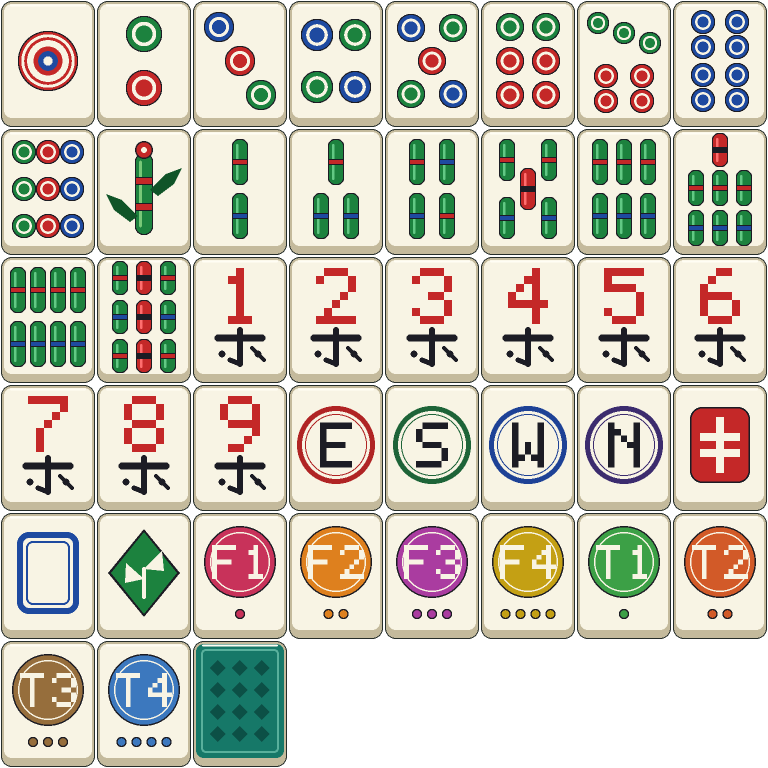
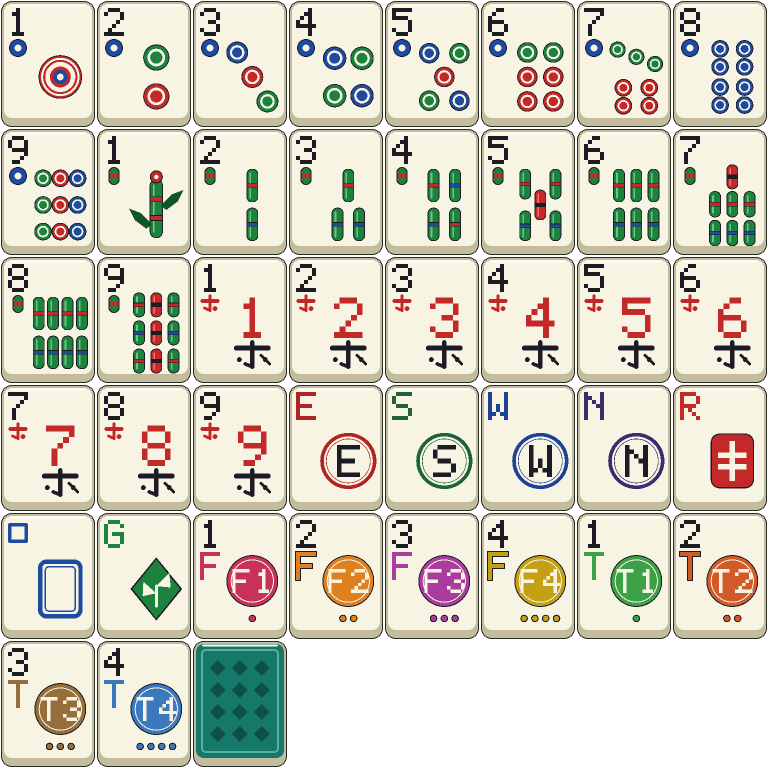
WP 1/2: the corner index on every tile face (INDEX_PIXEL 4.0, ART_SCALE 0.72)
make_tiles.py: Canvas view transform, R and G in the font, draw_index (rank glyph over a ring / stick / own mark for dots / bamboo /
characters, the letter of a wind, R, G and a hollow frame for the dragons, number over F / T for flowers and seasons), the patterns
scaled by ART_SCALE toward the bottom right, --check and the write step hold "has no index" / "has art under the index", --preview.
INDEX_PIXEL 4.0 at (8, 8) so a font pixel is one pixel on a 24 x 32 discard, ART_SCALE 0.72. Atlas regenerated; the XML is unchanged.

diff --git a/tools/make_tiles.py b/tools/make_tiles.py
@@ -6,6 +6,12 @@ tile set and no font file, so the art is ours and anyone can change it by editin
 
     python3 tools/make_tiles.py            writes assets/tiles/tiles.png and config/TextureLibrary.xml
     python3 tools/make_tiles.py --check    exits 0 when the committed files are what the generator makes now
+    python3 tools/make_tiles.py --preview OUT.png   writes a contact sheet of every cell at four sizes (OUT outside the repository)
+
+Every face has a corner index in its top left corner (a rank glyph over a small sign of the suit, or the letter of a wind, a dragon,
+a flower or a season), so that a tile can be told at the small sizes of the table. The patterns are drawn under a view transform that
+scales them toward the bottom right corner and leaves the corner free; the check holds that the index box of every face has index pixels
+and no art. The back has no index.
 
 The check compares the decoded pixels and the text of the XML, not the bytes of the PNG, because zlib output differs between versions.
 Standard library only (zlib, struct). The geometry below (CELL_W, CELL_H, COLUMNS, the cell of an id) is the source of the numbers;
@@ -56,12 +62,29 @@ BACK_FACE: Color = (22, 120, 104)
 BACK_RIM: Color = (88, 176, 156)
 BACK_DARK: Color = (12, 80, 70)
 
+# The corner index: a glyph of the 5x7 font at INDEX_PIXEL cell units per font pixel with its top left corner at (INDEX_X, INDEX_Y), and
+# below it a sign of INDEX_SIGN_HEIGHT units. The patterns are scaled by ART_SCALE toward the bottom right corner of the face so that they
+# leave INDEX_BOX (x0, y0, x1, y1, in cell pixels) free; a bigger index reads better on a small tile but takes more of the face.
+INDEX_PIXEL = 4.0
+INDEX_X = 8.0  # a multiple of 4, so that at a quarter size (a discard) a font pixel is one whole pixel
+INDEX_Y = 8.0
+INDEX_GAP = 4.0
+INDEX_SIGN_HEIGHT = 16.0
+ART_SCALE = 0.72
+INDEX_OUTLINE = 1.0
+
 # The body of a tile: an outline, the thick side and the face on top of it (the face is the area the patterns use).
 BODY_OUTLINE = (1.0, 1.0, CELL_W - 1.0, CELL_H - 1.0, 11.0)
 BODY_SIDE = (2.0, 2.0, CELL_W - 2.0, CELL_H - 2.0, 10.0)
 BODY_FACE = (4.0, 4.0, CELL_W - 4.0, CELL_H - 10.0, 8.0)
 CENTER_X = CELL_W / 2
 CENTER_Y = (BODY_FACE[1] + BODY_FACE[3]) / 2
+INDEX_GLYPH_W = 5 * INDEX_PIXEL
+INDEX_GLYPH_H = 7 * INDEX_PIXEL
+INDEX_CENTER_X = INDEX_X + INDEX_GLYPH_W / 2
+INDEX_SIGN_TOP = INDEX_Y + INDEX_GLYPH_H + INDEX_GAP
+# the box has room for a glyph under the glyph (flowers and seasons), the art keeps out of all of it
+INDEX_BOX = (4, 4, int(INDEX_X + INDEX_GLYPH_W + 2), int(INDEX_SIGN_TOP + INDEX_GLYPH_H + 2))
 
 
 # ----- the rasterizer -----
@@ -74,6 +97,14 @@ class Canvas:
         self.width = CELL_W * self.scale
         self.height = CELL_H * self.scale
         self.pixels = bytearray(self.width * self.height * 4)
+        self.view = (1.0, 0.0, 0.0)  # scale, offset x, offset y: art coordinates -> cell coordinates
+
+    def set_view(self, scale: float, offset_x: float, offset_y: float) -> None:
+        """From now on every shape is given in art coordinates and lands at `art * scale + offset` in the cell."""
+        self.view = (scale, offset_x, offset_y)
+
+    def reset_view(self) -> None:
+        self.view = (1.0, 0.0, 0.0)
 
     def copy(self) -> "Canvas":
         other = Canvas()
@@ -81,7 +112,13 @@ class Canvas:
         return other
 
     def fill(self, bounds: tuple[float, float, float, float], inside: Callable[[float, float], bool], color: Color) -> None:
-        """Paints every pixel of the box `bounds` (x0, y0, x1, y1) whose centre is inside the shape."""
+        """Paints every pixel of the box `bounds` (x0, y0, x1, y1) whose centre is inside the shape (both in the units of the view)."""
+        view_scale, view_x, view_y = self.view
+        if self.view != (1.0, 0.0, 0.0):
+            bounds = (bounds[0] * view_scale + view_x, bounds[1] * view_scale + view_y,
+                      bounds[2] * view_scale + view_x, bounds[3] * view_scale + view_y)
+            shape = inside
+            inside = lambda x, y: shape((x - view_x) / view_scale, (y - view_y) / view_scale)
         scale = self.scale
         left = max(0, int(bounds[0] * scale) - 1)
         top = max(0, int(bounds[1] * scale) - 1)
@@ -148,8 +185,16 @@ class Canvas:
         ys = [point[1] for point in points]
         self.fill((min(xs), min(ys), max(xs), max(ys)), inside, color)
 
-    def glyph(self, character: str, x: float, y: float, pixel: float, color: Color) -> None:
-        """A character of the 5x7 font with its top left corner at (x, y); every font pixel is a square of `pixel` cell units."""
+    def glyph(self, character: str, x: float, y: float, pixel: float, color: Color, outline: Optional[Color] = None) -> None:
+        """A character of the 5x7 font with its top left corner at (x, y); every font pixel is a square of `pixel` cell units.
+        With `outline` the glyph gets a border of INDEX_OUTLINE units in that colour (for a light colour on the ivory face)."""
+        if outline is not None:
+            grow = INDEX_OUTLINE
+            for row, bits in enumerate(FONT[character]):
+                for column, bit in enumerate(bits):
+                    if bit == "#":
+                        self.rect(x + column * pixel - grow, y + row * pixel - grow,
+                                  x + (column + 1) * pixel + grow, y + (row + 1) * pixel + grow, outline)
         for row, bits in enumerate(FONT[character]):
             for column, bit in enumerate(bits):
                 if bit == "#":
@@ -218,6 +263,8 @@ FONT: dict[str, tuple[str, ...]] = {
     "S": (".####", "#....", "#....", ".###.", "....#", "....#", "####."),
     "W": ("#...#", "#...#", "#...#", "#.#.#", "#.#.#", "##.##", "#...#"),
     "N": ("#...#", "##..#", "#.#.#", "#..##", "#...#", "#...#", "#...#"),
+    "R": ("####.", "#...#", "#...#", "####.", "#.#..", "#..#.", "#...#"),
+    "G": (".###.", "#...#", "#....", "#.###", "#...#", "#...#", ".###."),
     "F": ("#####", "#....", "#....", "####.", "#....", "#....", "#...."),
     "T": ("#####", "..#..", "..#..", "..#..", "..#..", "..#..", "..#.."),
 }
@@ -435,8 +482,7 @@ def draw_back(canvas: Canvas) -> None:
 
 # ----- the atlas -----
 
-def draw_face(tile_id: int, template: Canvas) -> Canvas:
-    canvas = template.copy()
+def draw_pattern(canvas: Canvas, tile_id: int) -> None:
     if tile_id < 9:
         draw_dots(canvas, tile_id + 1)
     elif tile_id < 18:
@@ -451,6 +497,87 @@ def draw_face(tile_id: int, template: Canvas) -> Canvas:
         draw_bonus(canvas, "F", tile_id - 34 + 1, FLOWER_COLORS[tile_id - 34])
     else:
         draw_bonus(canvas, "T", tile_id - 38 + 1, SEASON_COLORS[tile_id - 38])
+
+
+# ----- the corner index -----
+
+def is_light(color: Color) -> bool:
+    return 0.299 * color[0] + 0.587 * color[1] + 0.114 * color[2] > 120
+
+
+def index_glyph(canvas: Canvas, character: str, top: float, color: Color) -> None:
+    canvas.glyph(character, INDEX_X, top, INDEX_PIXEL, color, INK if is_light(color) else None)
+
+
+def sign_ring(canvas: Canvas) -> None:
+    """The sign of the dots: a ring with an ivory hole."""
+    cy = INDEX_SIGN_TOP + INDEX_SIGN_HEIGHT / 2
+    radius = INDEX_SIGN_HEIGHT / 2
+    canvas.circle(INDEX_CENTER_X, cy, radius + INDEX_OUTLINE, INK)
+    canvas.circle(INDEX_CENTER_X, cy, radius, BLUE)
+    canvas.circle(INDEX_CENTER_X, cy, radius * 0.42, FACE)
+
+
+def sign_stick(canvas: Canvas) -> None:
+    """The sign of the bamboo: a short green stick with a red band."""
+    top = INDEX_SIGN_TOP
+    bottom = INDEX_SIGN_TOP + INDEX_SIGN_HEIGHT
+    half = 4.6
+    x = INDEX_CENTER_X
+    canvas.rrect(x - half - INDEX_OUTLINE, top - INDEX_OUTLINE, x + half + INDEX_OUTLINE, bottom + INDEX_OUTLINE, half + 1.0, INK)
+    canvas.rrect(x - half, top, x + half, bottom, half, GREEN)
+    middle = (top + bottom) / 2
+    canvas.rect(x - half, middle - 2.0, x + half, middle + 2.0, RED)
+
+
+def sign_character(canvas: Canvas) -> None:
+    """The sign of the characters: a small mark of our own (heavy stroke, vertical stroke, a dot), not a real glyph."""
+    top = INDEX_SIGN_TOP
+    bottom = INDEX_SIGN_TOP + INDEX_SIGN_HEIGHT
+    x = INDEX_CENTER_X
+    y = top + 5.0
+    canvas.line(x - 7.5, y, x + 7.5, y, 4.0, RED)
+    canvas.line(x, top, x, bottom - 1.5, 3.4, RED)
+    canvas.line(x, bottom - 1.5, x - 5.5, bottom - 4.0, 2.8, RED)
+    canvas.circle(x + 5.0, bottom - 3.4, 2.4, RED)
+
+
+def sign_frame(canvas: Canvas) -> None:
+    """The White dragon: a hollow blue frame in the place of a letter (a W would be taken for the West wind)."""
+    top = INDEX_Y + 3.0
+    canvas.rrect_frame(INDEX_X, top, INDEX_X + INDEX_GLYPH_W, top + INDEX_GLYPH_W, 2.0, 3.6, BLUE)
+
+
+def draw_index(canvas: Canvas, tile_id: int) -> None:
+    """The corner index of a face, in cell coordinates (the view is the identity)."""
+    name = notation(tile_id)
+    if tile_id < 27:
+        index_glyph(canvas, name[0], INDEX_Y, INK)
+        (sign_ring, sign_stick, sign_character)[tile_id // 9](canvas)
+    elif tile_id < 31:
+        index_glyph(canvas, name[0], INDEX_Y, WIND_COLORS[tile_id - 27])
+    elif tile_id == 32:
+        sign_frame(canvas)
+    elif tile_id < 34:
+        index_glyph(canvas, name[0], INDEX_Y, (RED, BLUE, GREEN)[tile_id - 31])
+    else:
+        color = FLOWER_COLORS[tile_id - 34] if tile_id < 38 else SEASON_COLORS[tile_id - 38]
+        index_glyph(canvas, name[1], INDEX_Y, INK)
+        index_glyph(canvas, name[0], INDEX_SIGN_TOP, color)
+
+
+def art_view() -> tuple[float, float, float]:
+    """The view of the patterns: scaled toward the bottom right corner of the face, which leaves the top left corner free."""
+    return ART_SCALE, BODY_FACE[2] * (1 - ART_SCALE), BODY_FACE[3] * (1 - ART_SCALE)
+
+
+def draw_face(tile_id: int, template: Canvas, with_index: bool = True) -> Canvas:
+    canvas = template.copy()
+    canvas.set_view(*art_view())
+    draw_pattern(canvas, tile_id)
+    canvas.reset_view()
+    if with_index:
+        draw_index(canvas, tile_id)
     return canvas
 
 
@@ -484,7 +611,7 @@ def chunk(kind: bytes, data: bytes) -> bytes:
 
 def encode_png(rows: list[bytes]) -> bytes:
     raw = b"".join(b"\x00" + row for row in rows)  # filter type 0 on every row
-    header = struct.pack(">IIBBBBB", ATLAS_W, ATLAS_H, 8, 6, 0, 0, 0)
+    header = struct.pack(">IIBBBBB", len(rows[0]) // 4, len(rows), 8, 6, 0, 0, 0)
     return PNG_SIGNATURE + chunk(b"IHDR", header) + chunk(b"IDAT", zlib.compress(raw, 9)) + chunk(b"IEND", b"")
 
 
@@ -573,9 +700,29 @@ def problems_of(rows: list[bytes]) -> list[str]:
     return problems
 
 
+def box_of(cell: bytes) -> bytes:
+    """The pixels of INDEX_BOX in a cell of CELL_W x CELL_H RGBA pixels."""
+    x0, y0, x1, y1 = INDEX_BOX
+    return b"".join(bytes(cell[(y * CELL_W + x0) * 4 : (y * CELL_W + x1) * 4]) for y in range(y0, y1))
+
+
+def index_problems(rows: list[bytes]) -> list[str]:
+    """Every face has index pixels in INDEX_BOX, and the art alone (rendered with its view, without the index) leaves the box untouched."""
+    problems = []
+    template = body_template()
+    plain = box_of(template.downsample())
+    names = sprite_names()
+    for tile_id in range(TILE_ID_COUNT):
+        if box_of(cell_bytes(rows, tile_id)) == plain:
+            problems.append(f"{names[tile_id]} has no index")
+        if box_of(draw_face(tile_id, template, with_index=False).downsample()) != plain:
+            problems.append(f"{names[tile_id]} has art under the index")
+    return problems
+
+
 def check() -> int:
     expected_rows = assemble(render_cells())
-    failures = problems_of(expected_rows)
+    failures = problems_of(expected_rows) + index_problems(expected_rows)
     if not PNG_PATH.is_file():
         failures.append(f"{PNG_PATH} is missing")
     else:
@@ -597,7 +744,7 @@ def check() -> int:
 
 def write() -> int:
     rows = assemble(render_cells())
-    problems = problems_of(rows)
+    problems = problems_of(rows) + index_problems(rows)
     if problems:
         for problem in problems:
             print("make_tiles: " + problem, file=sys.stderr)
@@ -613,10 +760,82 @@ def write() -> int:
     return 0
 
 
+# ----- the preview -----
+
+PREVIEW_FELT: Color = (30, 90, 60)
+PREVIEW_SIZES = ((CELL_W, CELL_H), (45, 60), (28, 37), (24, 32))  # native, the viewer's hand, a meld, a discard
+PREVIEW_GAP = 8
+
+
+def box_filter(cell: bytes, width: int, height: int) -> list[bytes]:
+    """The cell at width x height pixels by averaging the covered source area, over the felt colour; rows of RGB bytes."""
+
+    def weights(count: int, size: int) -> list[list[tuple[int, float]]]:
+        step = size / count
+        result = []
+        for out in range(count):
+            low, high = out * step, (out + 1) * step
+            covered = [(i, min(high, i + 1) - max(low, i)) for i in range(int(low), min(size, int(high) + 1))]
+            result.append([(i, weight) for i, weight in covered if weight > 0])
+        return result
+
+    columns = weights(width, CELL_W)
+    lines = weights(height, CELL_H)
+    rows = []
+    for out_y in range(height):
+        row = bytearray()
+        for out_x in range(width):
+            red = green = blue = alpha = total = 0.0
+            for sy, wy in lines[out_y]:
+                for sx, wx in columns[out_x]:
+                    weight = wx * wy
+                    a = cell[(sy * CELL_W + sx) * 4 + 3] / 255
+                    red += cell[(sy * CELL_W + sx) * 4] * a * weight
+                    green += cell[(sy * CELL_W + sx) * 4 + 1] * a * weight
+                    blue += cell[(sy * CELL_W + sx) * 4 + 2] * a * weight
+                    alpha += a * weight
+                    total += weight
+            coverage = alpha / total
+            for value, felt in ((red, PREVIEW_FELT[0]), (green, PREVIEW_FELT[1]), (blue, PREVIEW_FELT[2])):
+                row.append(min(255, round(value / total + felt * (1 - coverage))))
+        rows.append(bytes(row))
+    return rows
+
+
+def preview(out: Path) -> int:
+    """A contact sheet: all cells at the four sizes of PREVIEW_SIZES, one block of COLUMNS columns per size, on the felt."""
+    out = out.expanduser().resolve()
+    if out.is_relative_to(ROOT):
+        print(f"make_tiles: the preview must not be written inside the repository ({ROOT}); it is never committed", file=sys.stderr)
+        return 1
+    rows_atlas = assemble(render_cells())
+    cells = [cell_bytes(rows_atlas, index) for index in range(CELL_COUNT)]
+    block_rows = (CELL_COUNT + COLUMNS - 1) // COLUMNS
+    sheet_width = COLUMNS * (CELL_W + PREVIEW_GAP) + PREVIEW_GAP
+    sheet: list[bytearray] = []
+    for width, height in PREVIEW_SIZES:
+        top = len(sheet)
+        sheet.extend(bytearray(PREVIEW_FELT * sheet_width) for _ in range(PREVIEW_GAP + block_rows * (height + PREVIEW_GAP)))
+        for index, cell in enumerate(cells):
+            x = PREVIEW_GAP + (index % COLUMNS) * (CELL_W + PREVIEW_GAP) + (CELL_W - width) // 2
+            y = top + PREVIEW_GAP + (index // COLUMNS) * (height + PREVIEW_GAP)
+            for dy, line in enumerate(box_filter(cell, width, height)):
+                sheet[y + dy][x * 3 : (x + width) * 3] = line
+    rgba = [bytes(b for i in range(0, len(row), 3) for b in (row[i], row[i + 1], row[i + 2], 255)) for row in sheet]
+    out.parent.mkdir(parents=True, exist_ok=True)
+    out.write_bytes(encode_png(rgba))
+    print(f"wrote {out} ({sheet_width}x{len(sheet)}, sizes {PREVIEW_SIZES})")
+    return 0
+
+
 def main(argv: Optional[list[str]] = None) -> int:
     parser = argparse.ArgumentParser(description="Draws the Mahjong tile atlas and writes the sprite library.")
     parser.add_argument("--check", action="store_true", help="exit 0 when the committed files are what the generator makes now")
+    parser.add_argument("--preview", metavar="OUT.png",
+                        help="write a contact sheet of every cell at four sizes (OUT must be outside the repository)")
     arguments = parser.parse_args(argv)
+    if arguments.preview:
+        return preview(Path(arguments.preview))
     return check() if arguments.check else write()
 
 
